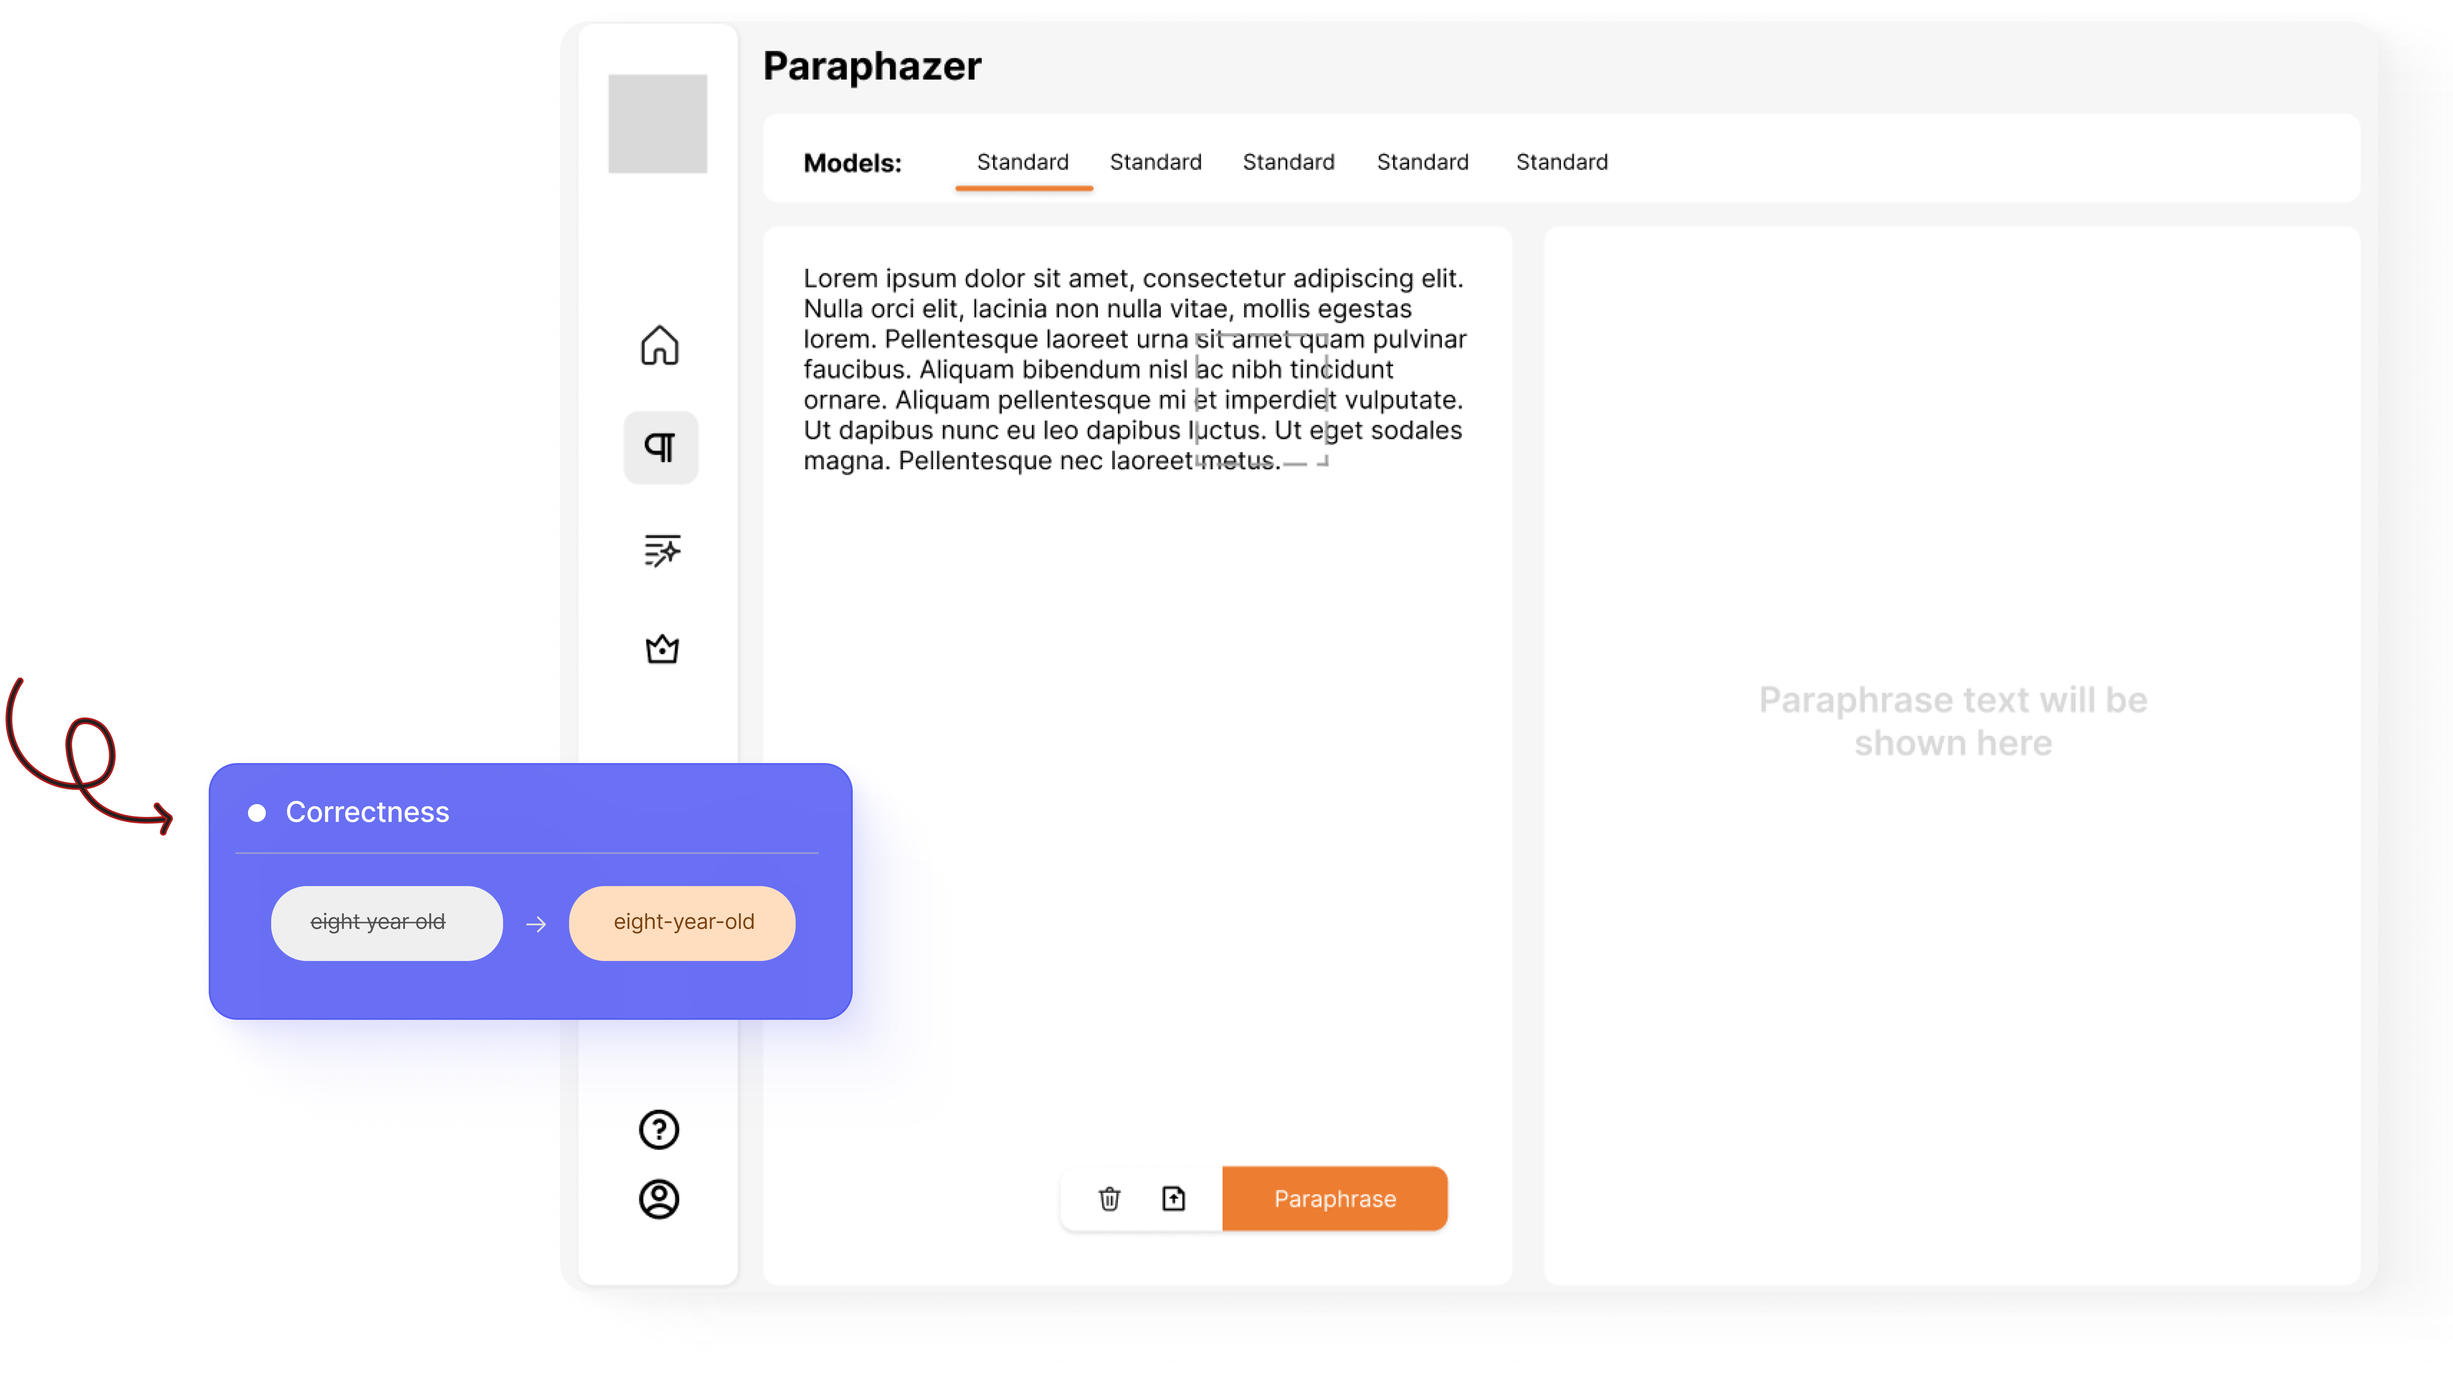
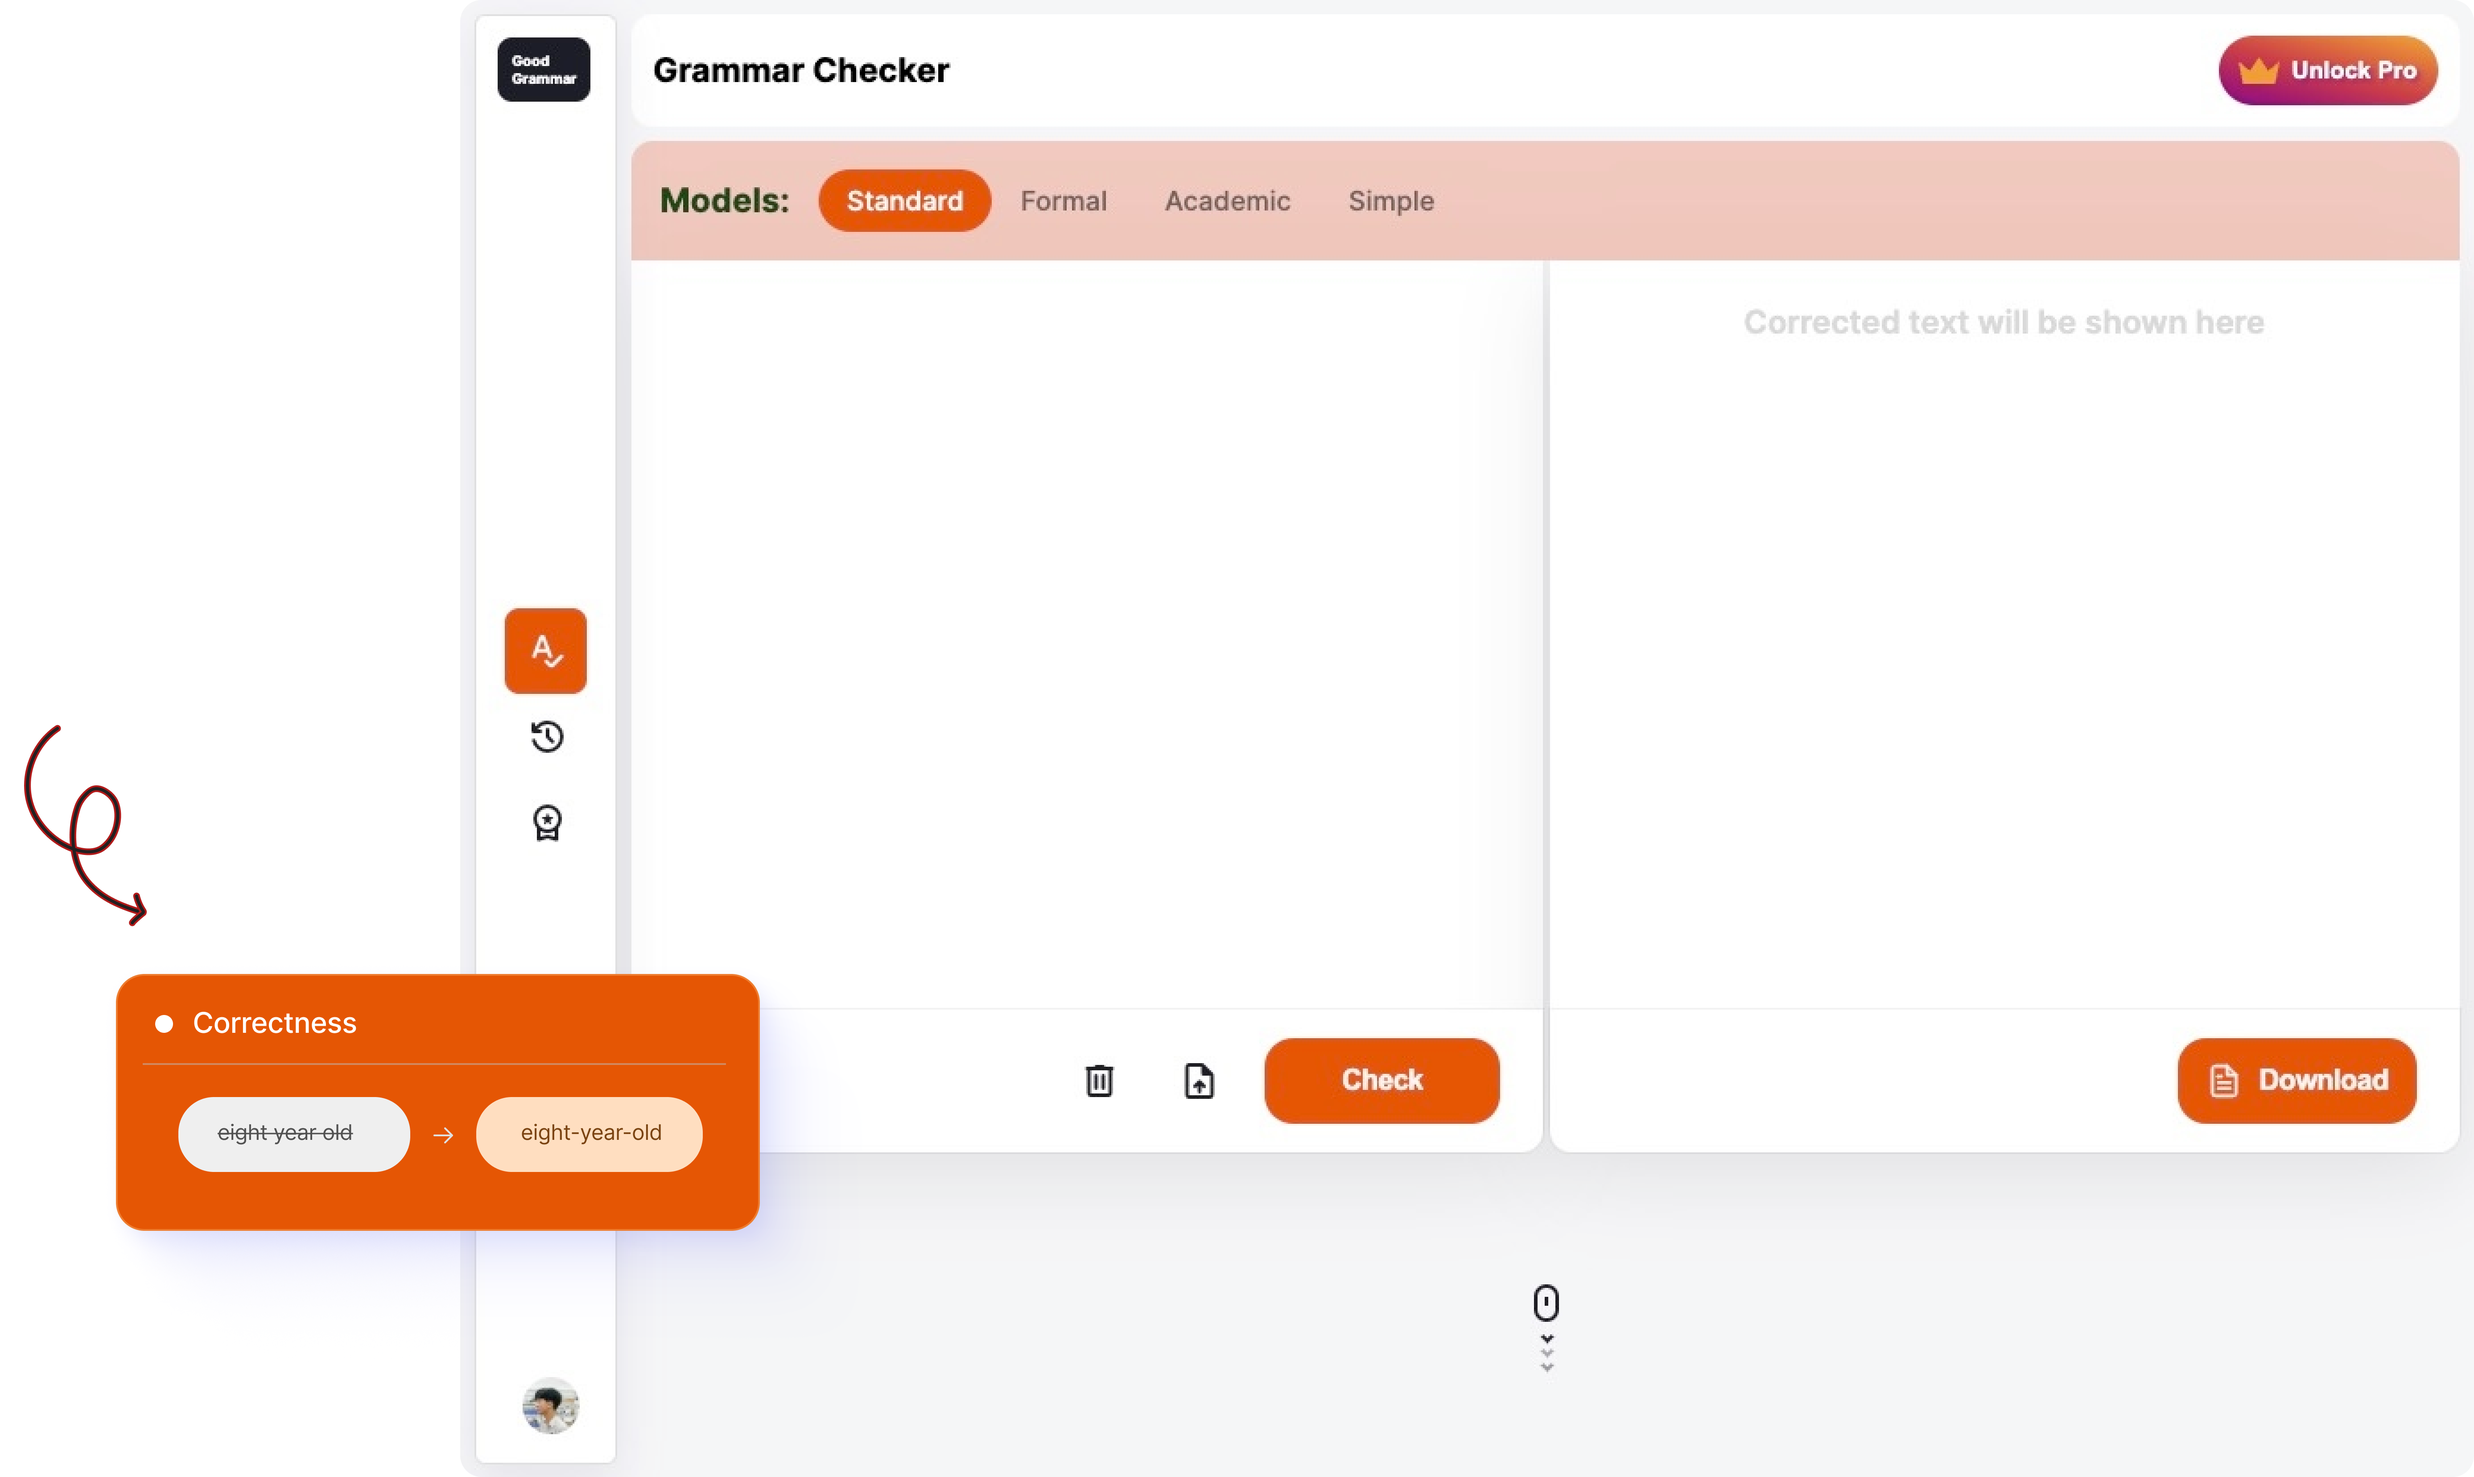
update placeholder image

diff --git a/src/components/home/feature/HomeFeature.jsx b/src/components/home/feature/HomeFeature.jsx
@@ -31,11 +31,11 @@ const HomeFeature = () => {
         <div className="section_block">
           <div className="block_title orange_block">
             <span className="material-symbols-rounded">format_paragraph</span>
-            <p>Paraphazer</p>
+            <p>Grammar Checker</p>
           </div>
           <div className="section_container orange orange_shadow">
             <p>
-              Transform your text effortlessly with our Paraphraser feature.
+              Transform your text effortlessly with our grammar checker feature.
               Redefine clarity, eliminate redundancy, and express your ideas
               with a fresh perspective. Your writing, reimagined.
             </p>
@@ -70,16 +70,17 @@ const HomeFeature = () => {
         <div className="section_block">
           <div className="block_title green_block">
             <span className="material-symbols-rounded">format_paragraph</span>
-            <p>Paraphazer</p>
+            <p>History</p>
           </div>
           <div className="section_container green push_margin">
             <p>
-              Seamless writing, impeccable results. Introducing our Grammar
-              Checker – your key to polished, error-free communication!
+              Delve into the past with our History feature, effortlessly
+              retracing your writing journey and empowering you with a seamless
+              record of your creative evolution.
             </p>
           </div>
         </div>
-        <img src={require("../../../assets/placeholder1.png")} alt="" />
+        <img src={require("../../../assets/placeholder2.jpeg")} alt="" />
       </div>
     </div>
   );

diff --git a/src/components/home/heading/HomeHeading.css b/src/components/home/heading/HomeHeading.css
@@ -46,8 +46,9 @@
 .home_img_section > img {
   width: auto;
   height: auto;
-  max-height: 800px;
+  max-height: 700px;
   transform: translate(5%, 0%);
+  margin-bottom:20px;
 }
 
 .text_with_underline {
